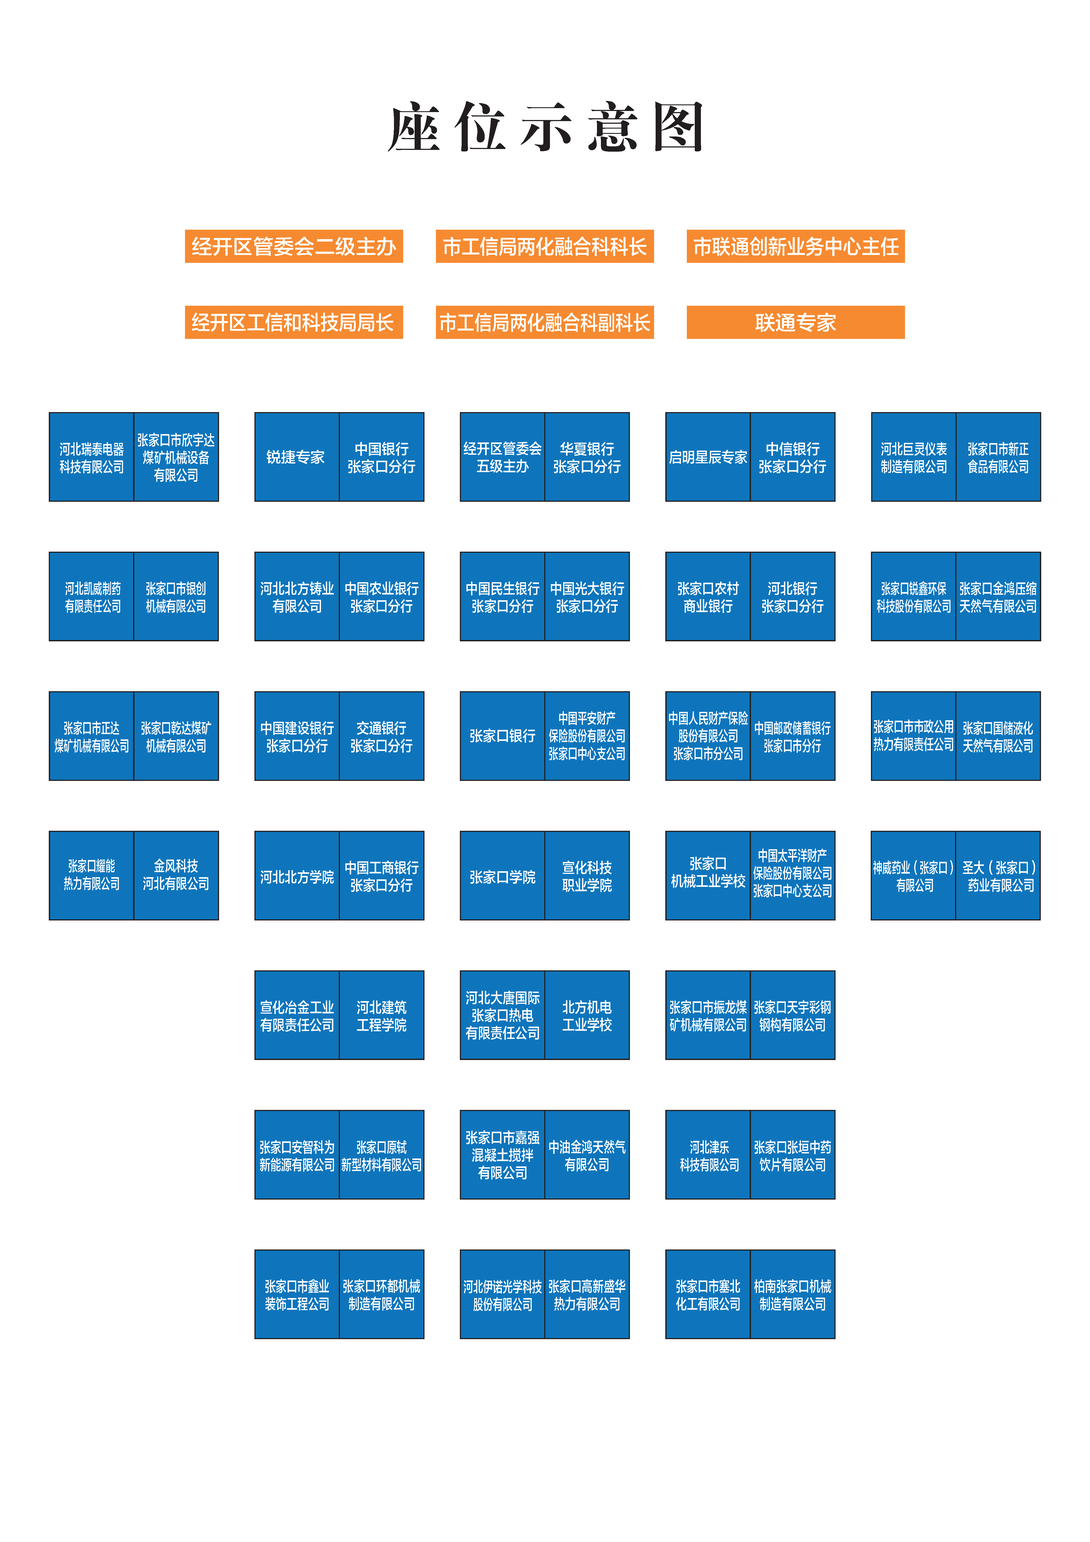
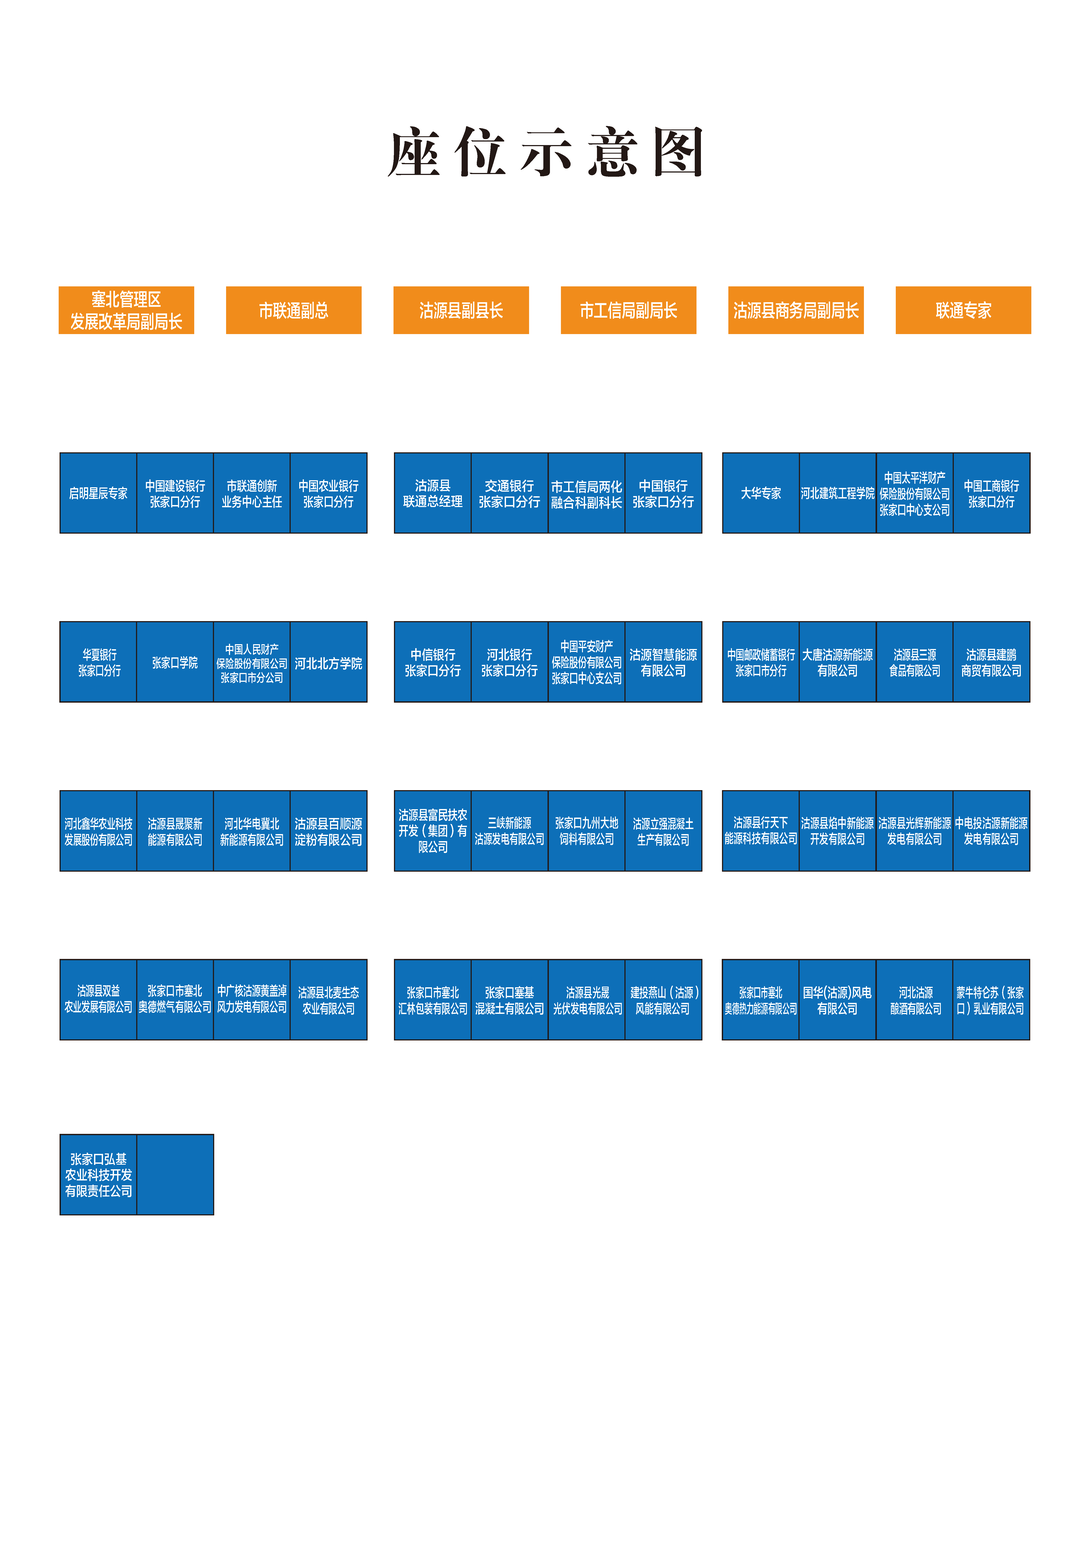
沽源v1

diff --git a/app/templates/city.html b/app/templates/city.html
@@ -30,8 +30,6 @@
 			{% else %}
                 <div class="city-text">{{jj["text"]}}</div>
 			{% endif %}
-
-
 		{% endfor %}
     </div>
 

diff --git a/app/main/__init__.py b/app/main/__init__.py
@@ -30,83 +30,74 @@ import time
 b = Blueprint("main", __name__)
 
 k_title = "工业互联网一体化进园区进企业“百城千园行”活动暨企业数字化转型发展推进行动"
-k_title_city = "（康保站）"
-k_title_sub = "百城千园行-康保站"
-k_local = "河北省张家口市康保县中共康保县委党校前楼会议厅"
+k_title_city = "（沽源站）"
+k_title_sub = "百城千园行-沽源站"
+k_local = "沽源县库伦淖尔旅游度假区开元酒店3楼会议室"
 k_elocal = ""
 k_zuowei = "../static/座位表.png"
 k_time = [
-    {"type": "main", "text": "9月27日-上午"},
-    {"time":"08:00-09:00", "text":"报到（河北省张家口市康保县中共康保县委党校前楼会议厅）"},
-    {"time":"09:00-09:05", "text":"主持人介绍与会领导和嘉宾"},
-    {"time":"09:05-09:10", "text":"领导致辞：康保县政府分管领导致辞"},
-    {"time":"09:10-09:15", "text":"领导致辞：中国联合网络通信有限公司张家口市分公司副总经理致辞"},
-    {"time":"09:15-09:35", "text":"领导致辞：市工业和信息化局分管领导致辞"},
-    {"time":"09:35-09:55", "text":"主题演讲：工业互联网赋能新型能源"},
-    {"time":"09:55-10:10", "text":"主题演讲：降本增效，精益生产，锐捷网络企业数字园区解决方案介绍"},
-    {"time":"10:10-10:25", "text":"主题演讲：AI赋能智慧风电场的可视化辅助"},
-    {"time":"10:25-10:40", "text":"签约仪式"},
-    {"time":"10:40-10:50", "text":"茶歇及观展"},
-    {"time":"10:50-11:00", "text":"案例分享：河北凯阔食品集团股份有限公司就信息化建设进行分享"},
-    {"time":"11:00-11:05", "text":"中国银行张家口分行做“数字贷”产品推介"},
-    {"time":"11:05-11:10", "text":"中国建设银行张家口分行做“数字贷”产品推介"},
-    {"time":"11:10-11:20", "text":"中国银行张家口分行做数字人民币应用推介"},
-    {"time":"11:20-12:00", "text":"自由对接"},
-    {"time":"12:00", "text":"就餐"},
-    {"type": "main", "text": "9月27日-下午"},
+    {"type": "main", "text": "10月23日-上午"},
+    {"time":"09:30-10:00", "text":"报到（沽源县库伦淖尔旅游度假区开元酒店3楼会议室）"},
+    {"time":"10:00-10:05", "text":"主持人介绍与会领导和嘉宾"},
+    {"time":"10:05-10:10", "text":"领导致辞：沽源县政府分管领导致辞"},
+    {"time":"10:10-10:15", "text":"领导致辞：中国联合网络通信有限公司张家口市分公司副总经理致辞"},
+    {"time":"10:15-10:35", "text":"领导致辞：市工业和信息化局分管领导致辞"},
+    {"time":"10:35-10:55", "text":"主题演讲：企业数字化转型的路径"},
+    {"time":"10:55-11:10", "text":"主题演讲：工控安全建设思路与实践"},
+    {"time":"11:10-11:25", "text":"主题演讲：智慧光伏电站可视化生产辅助系统解决方案"},
+    {"time":"11:25-11:30", "text":"签约仪式"},
+    {"time":"11:30-11:35", "text":"中国工商银行张家口分行做“数字贷”产品推介"},
+    {"time":"11:35-11:40", "text":"中国农业银行张家口分行做“数字贷”产品推介"},
+    {"time":"11:40-11:50", "text":"中国银行张家口分行做数字人民币应用推介"},
+    {"time":"11:50", "text":"就餐"},
+    {"type": "main", "text": "10月23日-下午"},
     {"time":"14:00", "text":"精准对接——工业企业与专家、服务商、金融机构及有关院校进行精准对接，深入企业现场洽谈"},
 ]
 k_xuzhi = [
     {"type": "title", "text": "会议须知"},
-    {"type": "text", "text": "您好!欢迎您来参加工业互联网一体化进园区进企业“百城千园行”活动暨企业数字化转型发展推进行动(康保站)，为确保会议的顺利进行，请您关注以下事项。"},
+    {"type": "text", "text": "您好!欢迎您来参加工业互联网一体化进园区进企业“百城千园行”活动暨企业数字化转型发展推进行动(沽源站)，为确保会议的顺利进行，请您关注以下事项。"},
     {"type": "left", "text": "一、严格遵守会议纪律"},
     {"type": "text", "text": "1、会议开始后，请将手机关闭或置于静音状态，保持会场安静，不得在会场内接打电话，不得随意走动。"},
     {"type": "text", "text": "2、会场内请勿吸烟，保持会场清洁。"},
     {"type": "text", "text": "3、会场内摄像、录音统一由会务组安排。"},
     {"type": "text", "text": "4、与会人员会议期间如需帮助请与会务组联系，会务人员联系方式如下："},
-    {"type": "text", "text": "会务经理:薛大伟 18603235802"},
-    {"type": "text", "text": "酒店经理:郝志龙（餐饮） 13373337703"},
-    {"type": "text", "text": "酒店经理:赵博超（会议） 15930351711"},
+    {"type": "text", "text": "会务经理:常昊字 18603233291"},
+    {"type": "text", "text": "酒店经理:王超 15011199819"},
     {"type": "left", "text": "二、会议时间和地点"},
     {"type": "text", "text": "1、会议时间:"},
-    {"type": "text", "text": "2023年9月27日（星期三）"},
+    {"type": "text", "text": "2023年10月23日（星期一）"},
     {"type": "text", "text": "2、会议地点:"},
-    {"type": "text", "text": "河北省张家口市康保县中共康保县委党校前楼会议厅"},
+    {"type": "text", "text": "沽源县库伦淖尔旅游度假区开元酒店3楼会议室"},
     {"type": "text", "text": "3、就餐地点:"},
-    {"type": "text", "text": "河北省张家口市康保县中共康保县委党校后楼自助餐厅"},
+    {"type": "text", "text": "库伦淖尔旅游度假区开元大帐"},
 ]
 k_jianjie = [
-    {"type": "title", "text": "康保县简介"},
-    {"type": "text", "text": "康保县位于河北省最西北部，县境东、北、西三面与内蒙古自治区接壤，平均海拔1450米，气候高寒干旱，年均气温2.1C，无霜期100天左右，年均降水量330毫米。县城总面积3365平方公里，辖7镇8乡326个行政村、585个自然村，1个省级经济开发区、1个怡安康城管委会，总人口26.2万， 常住人口13.8万。 曾是国家扶贫开发工作重点县，也是河北省十个深度贫困县之一，2020年底，8.8万农村贫困人口全部脱贫，195个贫困村全部出列，全县脱贫摘帽，被省委、省政府授予“全省脱贫攻坚先进集体”。"},
-    {"type": "text", "text": "2023年上半年，全县地区生产总值完成27.65亿元，同比增长2.2%，增速在全市排第15位;规上工业增加值实现8.28亿元，同比增长8.1%，增速在全市排第9位;固定资产投资完成14.71 亿元，同比增长4.1%，增速在全市排第14位;社会消费品零售总额完成4.28亿元，同比增长2.2%，增速在全市排第14位;全部财政收入完成4.67亿元，同比增长46.8%，增速在全市排第3位;城乡居民人均可支配收入分别完成19618元、8616元，同比增长分别为6.4%、7.9%，增速在全市排名分别为第3位、第9位。"},
-    {"type": "text", "text": " 历史发展沿革。康保县是张库大道的必经之路，有着重要的战略地位，曾是军草、畜产品的主要供给地之一。1925年康保正式建县，属察哈尔省管辖，1945年康保县人民政府民冀察区十九专区，1952年改属河北省张家口专区。新中国成立后，在党的领导下， 康保人民积极投身到社会主义革命和建设的伟大事业。改革开放30多年来，特别是脱贫攻坚战役期间，历届县委、政府团结带领全县人民攻坚克难、踏厉奋发，与自身相比康保县发生了巨大的变化， 经济实力显著增强，城乡面貌日新月异，生活水平明显提高。"},
-    {"type": "text", "text": "生态环境良好。康保天蓝、地绿、水净、气爽，是旅游度假、避暑纳凉、休闲养老的理想之地。空气洁净清新，国家二级标准以上天数常年保持在320天以上，1-8月PM2.5平均浓度9微克/立方米，大气质量持续全省领先;地下水PH值为7.4-7.8，富含钾、钙、钠、镁等多种矿物质元素，是天然的饮用矿泉水;土地资源丰富，拥有耕地211万亩、林地118万亩、草场150万亩，林木绿化率31.3%，草场盖度65%;境内无排污企业，土地无污染，农产品具备绿色有机、无公害、养分高等特点，康保苦菜、胡麻油等6个品牌被认定为国家地理标志商标，“康保柴胡” 入选中药材“十大冀药”产业大县名单。"},
-    {"type": "text", "text": "风光资源充裕。康保境内主风向稳定，风功率密度达到国标4-7级，平均风速6.6米/秒，可建设550万千瓦大型风电场。年日照时数达3100小时，是全省光照时间最长的县，为二类地区，仅次于青藏高原，具备200万千瓦光伏发电能力。目前，全县风光电获批716万千瓦，并网总规模达到557万千瓦，年制氢8000吨的鸿蒙新能源风光电制氢一期项目已经开工建设，新能源成为名副其实的支柱产业。"},
-    {"type": "text", "text": "文化底蕴深厚。康保在历史上属辽金满蒙民族游牧之地，在这里形成了“马背文化”与“农耕文化”相互交融的民俗风情和独具特色的地方文化，孕育 了康保人民秀内慧中、勤劳淳朴、诚信直爽的个性。境内国家级文物保护单位“金长城”遗址东西横贯全境，新石器时代兴隆历史文化遗存群保存相对完整:“康保二人台”被国务院列入首批国家非物质文化遗产保护名录，我县被誉为“中国民间文化艺术之乡”“二人台艺术之乡”， 康巴诺尔湖列入国家级湿地公园名录，是国家级保护动物遗鸥的主要繁殖地，被中国野生动物保护协会命名为“中国遗鸭之乡”"},
-    {"type": "text", "text": " 产业蓬勃发展。坚持把项目建设作为经济发展的切入点和突破口，紧紧围绕做大做强清洁能源、特色农牧、京张体育文化旅游三大主导产业，制定出台了扶持重点产业发展、招商引资奖励、返乡入乡创业扶持等政策措施，打出政策“组合拳”，持续拉长产业链条，扩大有效投资。可再生能源方面，抢抓张家口建设国家级可再生能源示范区机遇，加快推进鸿蒙新能源和制氢项目建设进度，引进氢能产业园、风储一体化等新能源综合产业项目落户康保，推动绿电在制氢、存储等领域广泛应用，着力构建风、光、储、氢、生物质能“五位一体”新能源体系，实现新能源产业集群发展、绿色发展。特色农牧方面，在做大做强皇世等农业龙头企业的基础上，引进内蒙古为生科技等一批生产型农牧龙头企业落户康保，全力打造生态、高效、质优的现代化高端有机农业。体育文化旅游方面，按照“专业化、赛事化旅游，生态型、旅居型康养”发展思路，坚持专业团队干专业事，深挖资源禀赋和人文历史，谋划实施以生态、马术、足球、太极、军旅为主题的特色文旅项目，新建全民冰雪体育综合体、公共体育场、二人台文化传播中心等，成功举办了遗鸥保护摄影周、草原马拉松、二人台艺术周、NCC全国机车越野争霸赛、全民丰收节等系列活动，全力融入京张体育文化旅游带建设。"},
-    {"type": "title", "text": "尚义县基本情况"},
-    {"type": "text", "text": "尚义县地处河北省西北部，晋冀蒙三省交界处，总面积2601平方公里，其中林地面积170万亩，森林覆盖率38.9%；草地面积127万亩，林草盖度达76.2%。全县分坝上、坝下两个地貌单元，坝上是草原地貌，坝下属丘陵浅山区，平均海拨1300米，年降水量330—420毫米，年平均气温3.6℃，无霜期100天—120天。全县辖7镇7乡1个安置区管委会，172个行政村，总人口18.24万人，常住人口10.42万人，城镇化率54.19%。"},
-    {"type": "text", "text": "尚义历史文化厚重。尚义于1936年建县，由时任察哈尔省主席宋哲元起名，寓“崇尚礼义”之意，军台文化、柔玄古镇、明长城等在此交汇融合，四台遗址入选“2022年中国六大考古新发现”。尚义资源禀赋独特。年均日照时数2776.8小时，年均有效风速时数在7200小时以上，年平均风速达3.2m/s以上，风能、太阳能均属国家二类优质资源区，风光电并网总量达437.2万千瓦，约占全市1/6。尚义农业基础较好。全县光照充足，气候冷凉，非常适宜发展特色种养产业，白萝卜、生菜等绿色无公害蔬菜远销日本、韩国等国家和地区。燕麦、草莓、西瓜、肉鸡等特色农业产业效益显著，成为带动贫困户增收的支柱产业。尚义燕麦获得“河北省特色农产品优势区”称号。尚义生态环境良好。境内河流淖泊众多，拥有大青山国家森林公园、察汗淖尔国家湿地公园、石人背地质公园等自然旅游景区，草原天路西线贯通东西，“赛羊”“冰雪”旅游品牌效应日渐突显，是避暑旅游、休闲度假的理想之地，十三号村荣获“2020年中国美丽休闲乡村”称号。"},
-    {"type": "text", "text": "近年来，全县坚持以习近平新时代中国特色社会主义思想为指引，积极抢抓首都“两区”、京张体育文化旅游带、河北“两翼”等战略机遇，大力实施“产业提质增效、乡村全面振兴、城市扩能提质、改革创新赋能、民生普惠共享、生态治理提级、社会治理创优”七大工程，经济社会和各项事业取得了新成效、开辟了新局面。2023年1-7月份，全县地区生产总值增长4.4%；规上工业增加值增长10.9%；固定资产投资增长1.2%；社会消费品零售总额增长3.3%；城镇和农村居民人均可支配收入分别增长6%和8%。"},
+    {"type": "title", "text": "沽源县简介"},
+    {"type": "text", "text": "沽源县位于河北省西北部坝上地区，地处内蒙古高原向华北平原的过渡带，东临承德市丰宁县，南与赤城县、崇礼县相连，西与张北县、康保县毗邻，北与内蒙古锡林郭勒盟正蓝旗、多伦县接壤，总面积3654平方千米，辖4镇、10乡、233个行政村，总人口22.45万。沽源气候条件独特，全县平均海拔1536米，年均气温2.1摄氏度，夏季平均气温17.9摄氏度，年均降水量400毫米左右，无霜期110天，年优良空气天数290天以上。沽源生态系统完好，是滦河、黑河、白河的发源地，全县林地面积192.8万亩，草场面积202万亩，水域面积6.1万亩，湿地面积79.5万亩，是京津冀地区重要的水源地和生态功能区。拥有闪电河国家级湿地公园和葫芦河省级湿地公园。沽源历史文化底蕴深厚，曾是辽、金、元历代帝王的避暑游猎胜地，境内有小宏城遗址、九连城城址、梳妆楼元墓、张库古商道、历代长城等多处历史文化古迹。小宏城遗址、九连城城址和梳妆楼元墓为国家重点文物保护单位。沽源资源能源丰富，已探明铀钼、褐煤、沸石、铅锌等矿产资源20余种。拥有340万千瓦的风能资源，360万千瓦的太阳能资源，是仅次于西藏西部的太阳能辐射二类地区。沽源交通区位独特，现有国省干线7条，张石、张承、二秦高速建成通车，太锡铁路通过省发改委立项。随着交通路网体系的不断完善，我县链接张承蒙、融入环京津的区位优势日益显现。"},
+    {"type": "text", "text": "2022年，全县生产总值完成71.3亿元，同比增长8%；固定资产投资同比增长10.7%；规模以上工业增加值同比增长15.2%；社会消费品零售总额同比增长8.4%；全部财政收入完成7.5亿元，同比增长9.8%；一般公共预算收入完成4.48亿元，同比增长12.1%；城乡居民人均可支配收入分别完成34178元、14686元，同比增长7.8％和13.4%。"},
+    {"type": "title", "text": "塞北管理区简介"},
+    {"type": "text", "text": "塞北管理区前身是河北省国营沽源牧场，始建于1955年，先后隶属国家农业部、河北省农垦局。2003年6月，经省政府批准，正式改制为张家口市塞北管理区，为张家口市委、市政府派出机构，同时挂张家口市高效畜牧业示范区牌子。我区地处北纬41°,西与太仆寺旗接壤，北与正蓝旗相毗，东与丰宁县相邻，南与沽源县相连，是典型的农牧交错带和国际公认的黄金奶源带。全区总面积227平方公里，其中耕地16.8万亩，林地6.16万亩，草地8.89万亩。辖4个管理处，户籍人口6486人，常住人口6804人。近年来，随着产业转型升级、绿色发展的步伐不断加快，在发展质量提升方面获得了国家和省级的认可，先后获批国家农业标准化示范区、全国农垦农机标准化示范农场、省级乳业现代农业园区、国家现代农业示范区、第一批畜牧业绿色发展示范县区、省级农业可持续发展试验示范区、全国农村一二三产业融合发展创建名单。2020年黄土湾草原公园被列入首批国家草原自然公园试点建设名单。2022年，该区坚决贯彻省委、省政府，市委、市政府和区党工委决策部署，坚持稳中求进工作总基调，贯彻新发展理念，融入新发展格局，推动高质量发展，扎实做好“六稳”工作，积极落实“六保”任务，全力稳住了经济基本盘，全年完成地区生产总值14.9亿元，增长4%，完成一般公共预算收入1.9亿元，增长16.8%；规上工业增加值增长3.4%；完成固定资产投资5.6亿元，增长22.3%；完成社会消费品零售总额0.64亿元，增长0.4%。"},
+    {"type": "text", "text": "近年来，该区以打造首都“两区”建设先行示范区为目标，立足资源禀赋，发挥比较优势, 抢抓太锡铁路机遇，大力发展四大产业，打造特色小城，推动高质量发展。做强做优特色农牧业。大力发展乳业、薯业、草业，在蒙牛乳业、现代牧业等龙头企业的带动下，形成了集奶牛规模养殖、乳品加工营销、饲草料供应、产品包装配套、沼气发电、粪渣还田的全产业链条和马铃薯组培育苗、种薯繁育、商品薯种植、全粉加工薯业经济产业链。建立河北草地生态系统国家野外科学观测研究站和中国农大草业科学教学基地，为草业发展提供了科技人才支撑。大力发展新型能源业。该区有适合发展40万千瓦的风电区域，有240万千瓦光伏发电潜力，具备发展2个百万千瓦的新能源项目的良好条件。引进了智能微电网、“农光互补”等一批优质项目，构建“发-输-配-售-用”一体化区域智能微电网系统，打造发电、储运、应用一体化新能产业基地。挖掘培育文化旅游业。发展生态农业观光游，建设2个万亩草原公园；探索工业企业科普游，建成蒙牛塞北乳业国家3A级工业景区；拓展地方文化特色游。挖掘塞北地域蒙元文化、农垦文化等特色文化，规划建设沽源牧场场史馆、农垦文化博物馆；打造草原特色赛事游。开展“全国航模比赛”等活动；大力宣传塞北风情，完成了“塞北的雪”影视拍摄。积极发展健康养生业。大力发展健康养老产业，打造“慢生活”特色的养老服务体系，发展“候鸟式”和“度假式”养老。发展健康旅游产业,发展以休闲养生、文化体验、旅游度假为特色的“医疗+养生+康复+旅游”产品，建设与田园风情、山水生态、休闲旅游相结合的养生体验和疗养基地，打造休闲康养旅游集散地。"},
 ]
 k_chengche = [
     {"type": "title", "text": "乘车安排"},
     {"type": "left", "text": "一、时间"},
-    {"type": "text", "text": "9月27日下午14:00"},
+    {"type": "text", "text": "10月23日下午14:00准时出发"},
     {"type": "left", "text": "二、内容"},
-    {"type": "text", "text": "嘉宾由河北省张家口市康保县中共康保县委党校前楼会议厅前门集体乘车赴河北恒太皮具股份有限公司、张家口皇世食品有限公司"},
+    {"type": "text", "text": "嘉宾由沽源县库伦淖尔旅游度假区开元酒店前门集体乘车赴沽源县北麦生态农业有限公司"},
     {"type": "left", "text": "三、乘客"},
     {"type": "text", "text": "联通雄安产业互联网有限公司专家 "},
-    {"type": "text", "text": "浙江大华技术股份有限公司专家 "},
-    {"type": "text", "text": "锐捷网络股份有限公司专家"},
+    {"type": "text", "text": "北京启明星辰信息安全技术有限公司 "},
+    {"type": "text", "text": "浙江大华技术股份有限公司专家"},
     {"type": "text", "text": "有关金融机构及院校"},
     {"type": "text", "text": "张家口市工信局主要负责人"},
-    {"type": "text", "text": "康保县发展和改革局主要负责人"},
-    {"type": "text", "text": "康保县联通主要负责人"},
+    {"type": "text", "text": "沽源县商务局主要负责人"},
+    {"type": "text", "text": "塞北管理区发展和改革局主要负责人"},
+    {"type": "text", "text": "沽源县联通主要负责人"},
     {"type": "left", "text": "四、引导车"},
     {"type": "text", "text": "冀G 31107 "},
     {"type": "left", "text": "五、联络员"},
-    {"type": "text", "text": "薛大伟 18603235802"},
+    {"type": "text", "text": "常昊宇 18603233291"},
 ]
 
 @b.route("/MP_verify_TTH4vMTo8zLwTLXd.txt", methods=["GET"])
